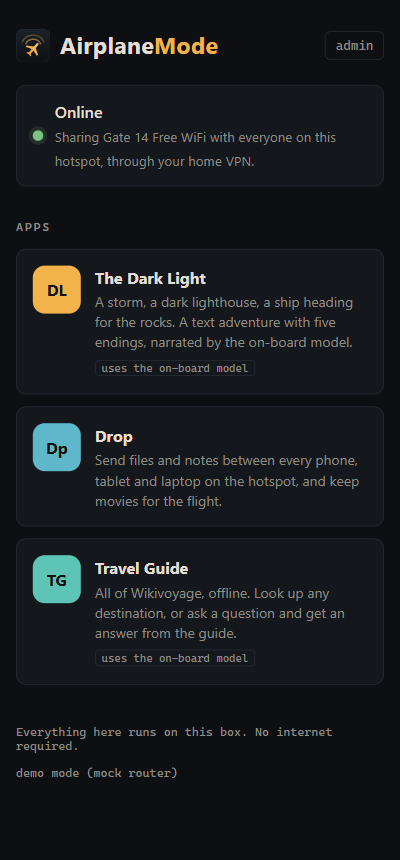
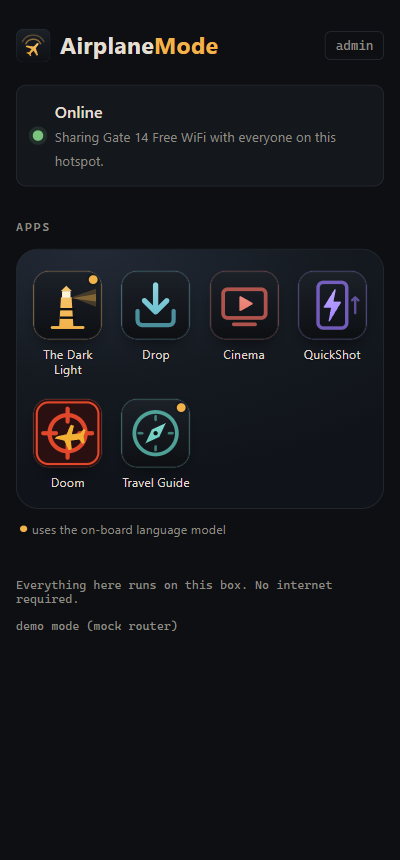
Docs: Doom in the app contract, workspace, landing screenshot
- app-contract: Drop offers non-media types (e.g. application/x-doom-wad) as is
- VS Code workspace: add airplanemode-doom
- landing screenshot retaken (icon grid with Cinema, QuickShot, Doom)

diff --git a/README.md b/README.md
@@ -22,7 +22,7 @@ private hotspot for your devices that:
   hotspots and which apps are on the menu, from any phone.
 
 <p align="center">
-  <img src="docs/screenshots/landing-online.png" width="230" alt="Landing page: online through the home VPN, with the app menu">
+  <img src="docs/screenshots/landing-online.png" width="230" alt="Landing page: online, with the app menu">
   <img src="docs/screenshots/landing-signin.png" width="230" alt="Landing page: this Wi-Fi needs a sign-in">
   <img src="docs/screenshots/admin-vpn-devices.png" width="230" alt="Admin panel: home VPN, connected devices, data use">
 </p>

diff --git a/docs/app-contract.md b/docs/app-contract.md
@@ -63,6 +63,9 @@ An app can offer to open files from another app. Today that's Drop: its items ge
 ```
 
 `{id}` is replaced with the item's id. The offering app reads the list from `GET /api/apps`.
+Drop offers audio and video types only when the browser can play the format; any other type
+is offered as is. Doom, for example, declares `"types": ["application/x-doom-wad"]` (Drop gives
+`.wad` uploads that type).
 
 ## What the platform gives apps
 
